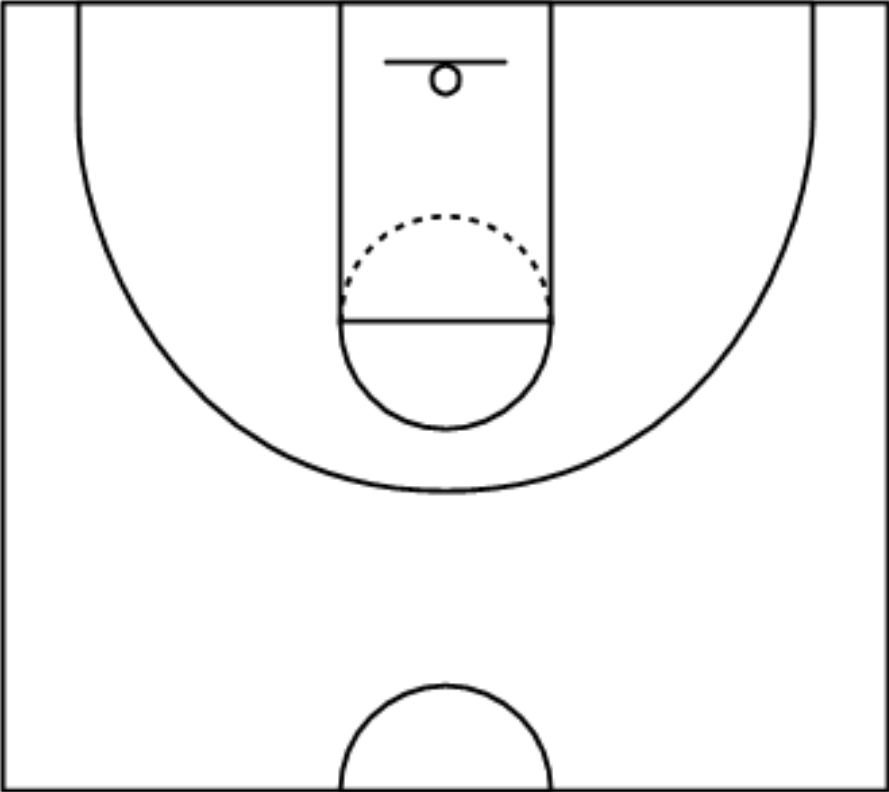
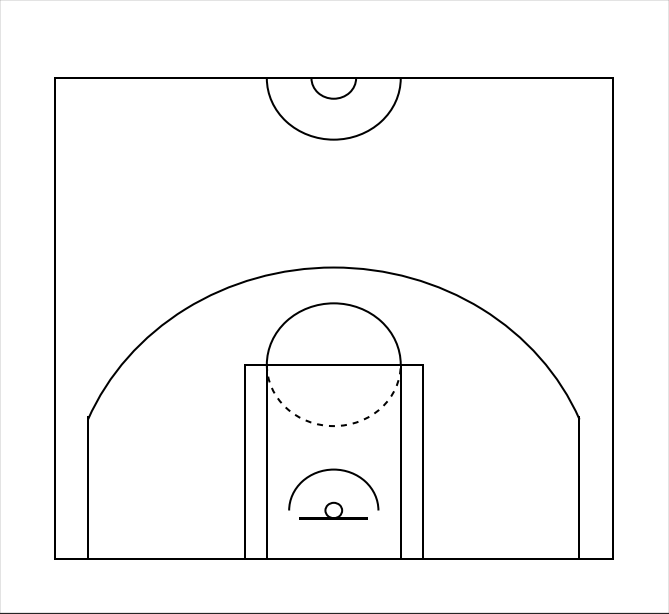
practically finished first tab and architecture for 2nd tab

diff --git a/assets/bballform.css b/assets/bballform.css
@@ -161,6 +161,22 @@ in the following two repos:
     background-position-x: 244px;
 }
 
+.player-select-box {
+    background-color: #2d3038 !important;
+    color: #000000;
+    border-bottom: 3px dotted gold;
+    width: 500px;
+    padding: 5px;
+    font-size: 16px;
+    line-height: 1;
+    border: 0;
+    border-radius: 15px;
+    height: 78px;
+    /* background: url(http://cdn1.iconfinder.com/data/icons/cc_mono_icon_set/blacks/16x16/br_down.png) no-repeat right #ddd; */
+    -webkit-appearance: none;
+    background-position-x: 244px;
+}
+
 .period-select-box {
     color: #ACC2DC !important;
     border-bottom: 3px dotted gold;

diff --git a/myapp.py b/myapp.py
@@ -9,14 +9,23 @@ import dash_core_components as dcc
 import dash_html_components as html
 import dash_bootstrap_components as dbc
 import plotly.express as px
+import plotly.graph_objects as go
 import pandas as pd
+from PIL import Image
 
 app = dash.Dash(__name__)#,
                 # suppress_callback_exceptions=True)
 
 ### Real df (Saved to disk right now) ###
-sf = pd.read_csv('shots_fixed.csv')
-# sf = pd.read_csv('https://raw.githubusercontent.com/sealneaward/nba-movement-data/master/data/shots/shots_fixed.csv')
+# sf = pd.read_csv('shots_fixed.csv')
+sf = pd.read_csv('https://raw.githubusercontent.com/sealneaward/nba-movement-data/master/data/shots/shots_fixed.csv')
+
+
+
+# build team dictionary
+unique_teams = sorted(sf['TEAM_NAME'].unique())
+team_dict = [{'label': i, 'value': i} for i in unique_teams]
+
 
 ### Create Graph ##
 
@@ -46,13 +55,8 @@ def build_banner():
             )
         ]
     )
-    
-fig = px.scatter(sf,
-                 x="LOC_X", 
-                 y="LOC_Y",
-                 color="SHOT_MADE_FLAG",
-                 hover_name="PLAYER_NAME")
 
+fig = go.Figure()
 
 
 ### APP LAYOUT PORTION ###
@@ -103,6 +107,7 @@ def render_content(tab):
                 # div for left part of shooting tab
                 html.Div(
                     id='tab-1-left-part',
+                    className = 'six columns',
                     style={
                         'width':'30%',
                         'display':'inline-block'
@@ -111,48 +116,15 @@ def render_content(tab):
                         html.Label('Select Team:',
                             style={
                                 'textAlign': 'left',
-                                'font-size': 24,
-                                'margin-top': 20,
+                                'fontSize': 24,
+                                'marginTop': 20,
                             }
                         ),
 
                         dcc.Dropdown(
                             id='team-dropdown-id',
-                            options=[
-                                {'label': 'Atlanta Hawks', 'value': 'Atlanta Hawks'},
-                                {'label': 'Boston Celtics', 'value': 'Boston Celtics'},
-                                {'label': 'Brooklyn Nets', 'value': 'Brooklyn Nets'},
-                                {'label': 'Charlotte Hornets', 'value': 'Charlotte Hornets'},
-                                {'label': 'Chicago Bulls', 'value': 'Chicago Bulls'},
-                                {'label': 'Cleveland Cavaliers', 'value': 'Cleveland Cavaliers'},
-                                {'label': 'Dallas Mavericks', 'value': 'Dallas Mavericks'},
-                                {'label': 'Denver Nuggets', 'value': 'Denver Nuggets'},
-                                {'label': 'Detroit Pistons', 'value': 'Detroit Pistons'},
-                                {'label': 'Golden State Warriors', 'value': 'Golden State Warriors'},
-                                {'label': 'Houston Rockets', 'value': 'Houston Rockets'},
-                                {'label': 'Indiana Pacers', 'value': 'Indiana Pacers'},
-                                {'label': 'Los Angeles Clippers', 'value': 'LA Clippers'},
-                                {'label': 'Los Angeles Lakers', 'value': 'Los Angeles Lakers'},
-                                {'label': 'Memphis Grizzlies', 'value': 'Memphis Grizzlies'},
-                                {'label': 'Miami Heat', 'value': 'Miami Heat'},
-                                {'label': 'Milwaukee Bucks', 'value': 'Milwaukee Bucks'},
-                                {'label': 'Minnesota Timberwolves', 'value': 'Minnesota Timberwolves'},
-                                {'label': 'New Orleans Pelicans', 'value': 'New Orleans Pelicans'},
-                                {'label': 'New York Knicks', 'value': 'New York Knicks'},
-                                {'label': 'Oklahoma City Thunder', 'value': 'Oklahoma City Thunder'},
-                                {'label': 'Orlando Magic', 'value': 'Orlando Magic'},
-                                {'label': 'Philadelphia 76ers', 'value': 'Philadelphia 76ers'},
-                                {'label': 'Phoenix Suns', 'value': 'Phoenix Suns'},
-                                {'label': 'Portland Trail Blazers', 'value': 'Portland Trail Blazers'},
-                                {'label': 'Sacramento Kings', 'value': 'Sacramento Kings'},
-                                {'label': 'San Antonio Spurs', 'value': 'San Antonio Spurs'},
-                                {'label': 'Toronto Raptors', 'value': 'Toronto Raptors'},
-                                {'label': 'Utah Jazz', 'value': 'Utah Jazz'},
-                                {'label': 'Washington Wizards', 'value': 'Washington Wizards'}
-                            ],
-                            value=['Chicago Bulls',
-                                    'Detroit Pistons',
-                            ],
+                            options=team_dict,
+                            value=['Chicago Bulls','Detroit Pistons',],
                             multi=True,
                             searchable=True,
                             search_value='',
@@ -161,11 +133,31 @@ def render_content(tab):
                             className='team-select-box',
                         ),
 
+                        html.Label('Select Players:',
+                            style={
+                                'textAlign': 'left',
+                                'fontSize': 24,
+                                'marginTop': 20
+                            }
+                        ),
+
+                        dcc.Dropdown(
+                            id='player-selection',
+                            value=['Derrick Rose','Reggie Jackson'],
+                            multi=True,
+                            clearable=True,
+                            searchable=True,
+                            search_value='',
+                            placeholder='Select Players:',
+                            className='player-select-box',
+                        ),
+
                         html.Label('Select Period:',
                             style={
                                 'textAlign': 'left',
                                 'font-size': 24,
-                                'margin': 'auto'
+                                'margin': 'auto',
+                                'marginTop': 20
                             }
                         ),
 
@@ -196,7 +188,7 @@ def render_content(tab):
                         html.Div('_',
                             className='gap',
                             style={
-                                'marginTop':500,
+                                'marginTop':300,
                                 'color': bball_colors['page_background']
                             },
                             
@@ -214,8 +206,8 @@ def render_content(tab):
                         dcc.Graph(
                             id='shot-graph',
                             style={
-                                'height':800,
-                                'width':900,
+                                'height':750,
+                                'width':800,
                                 'float': 'right'
                             },
                             figure=fig
@@ -239,6 +231,8 @@ def render_content(tab):
 
 
 # == Shooting Callbacks == #
+
+# Simple callback demo that diplays the period selected
 @app.callback(
     Output('team-output-container', 'children'),
     [Input('period-slider', 'value')]
@@ -246,28 +240,72 @@ def render_content(tab):
 def update_output(value):
     return 'You have selected "{}"'.format(value)
 
+
+@app.callback(
+    Output('player-selection', 'options'),
+    [Input('team-dropdown-id', 'value')]
+)
+def update_player_list(team_list):
+    df = pd.DataFrame()
+    for i in team_list:
+        temp_df = sf[sf['TEAM_NAME'] == i]
+        df = df.append(temp_df)
+
+    unique_players = df['PLAYER_NAME'].unique()
+
+    return [{'label': i, 'value': i} for i in unique_players]
+
+
+# create shot graph from team and period selection
 @app.callback(
     Output('shot-graph', 'figure'),
-    [Input('team-dropdown-id', 'value'),
+    [Input('player-selection', 'value'),
      Input('period-slider', 'value')]
 )
 def build_graph(team_list, period):
     df = pd.DataFrame()
     for i in team_list:
-        temp_df = sf[sf['TEAM_NAME'] == i]
+        temp_df = sf[sf['PLAYER_NAME'] == i]
         df = df.append(temp_df)
     if (period != 5):
         df = df[df['PERIOD'] == period]
-    fig = px.scatter(df,
-                    x='LOC_X',
-                    y='LOC_Y',
-                    color="SHOT_MADE_FLAG",
-                    hover_name='PLAYER_NAME')
+
+    # make figure
+    fig = go.Figure(data=go.Scatter(
+                        x=df['LOC_X'],
+                        y=df['LOC_Y'],
+                        mode='markers',
+                        hovertext=df['PLAYER_NAME']
+                    )
+     )
+
+    fig.update_xaxes(range=[-300,300],showgrid=False, zeroline=False)
+    fig.update_yaxes(range=[-100,500],showgrid=False, zeroline=False)
+
     fig.update_layout(
         plot_bgcolor = bball_colors['content_background'],
         paper_bgcolor = bball_colors['content_background'],
         font_color = bball_colors['text']
     )
+
+    # Incorporate Image
+    img = Image.open('Basketball_Halfcourt3.png')
+
+    fig.add_layout_image(
+        dict(
+            source=img,
+            xref="x",
+            yref="y",
+            x=-250,
+            y=422.5,
+            sizex=500,
+            sizey=470,
+            sizing="stretch",
+            opacity=1.0,
+            layer="below")
+    )
+
+
     return fig
 
 # Run's program with "hot-reloading" (i.e. when changes are made, app restarts)
